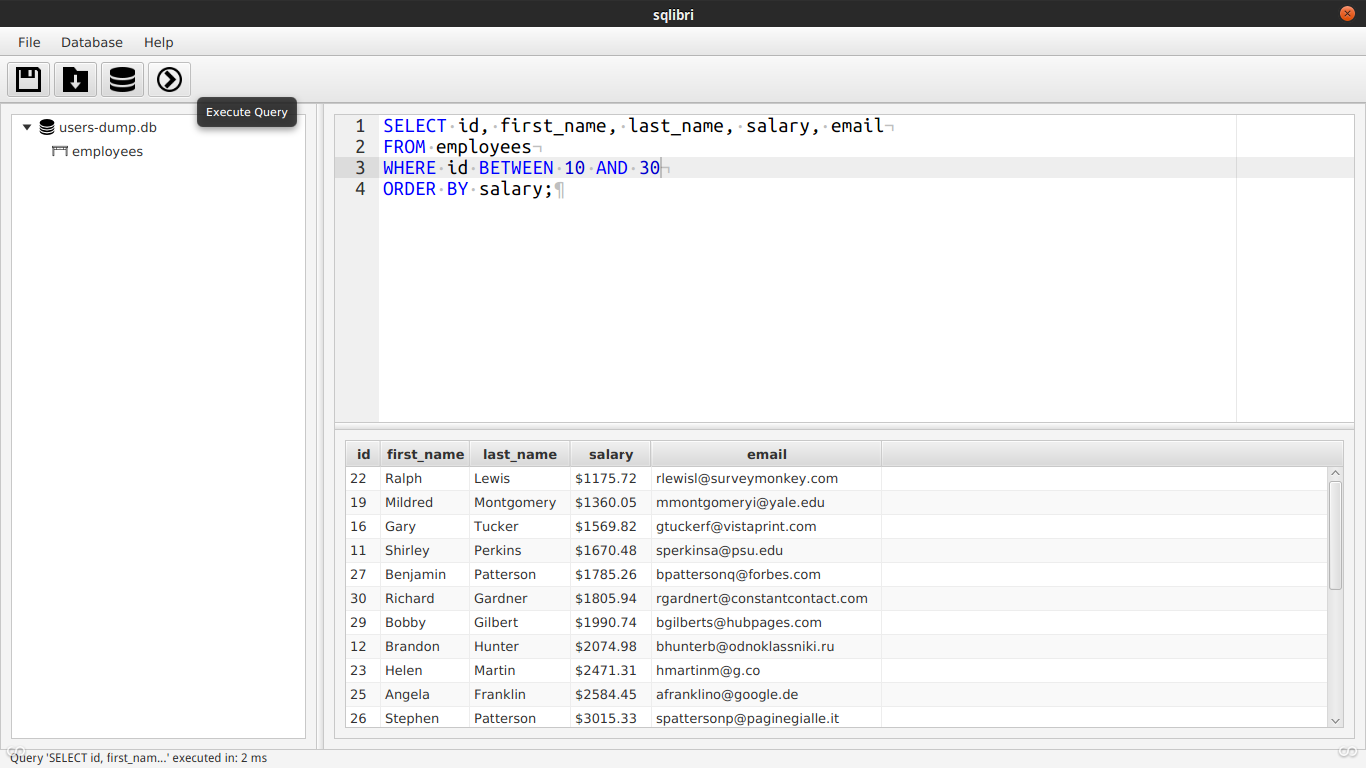
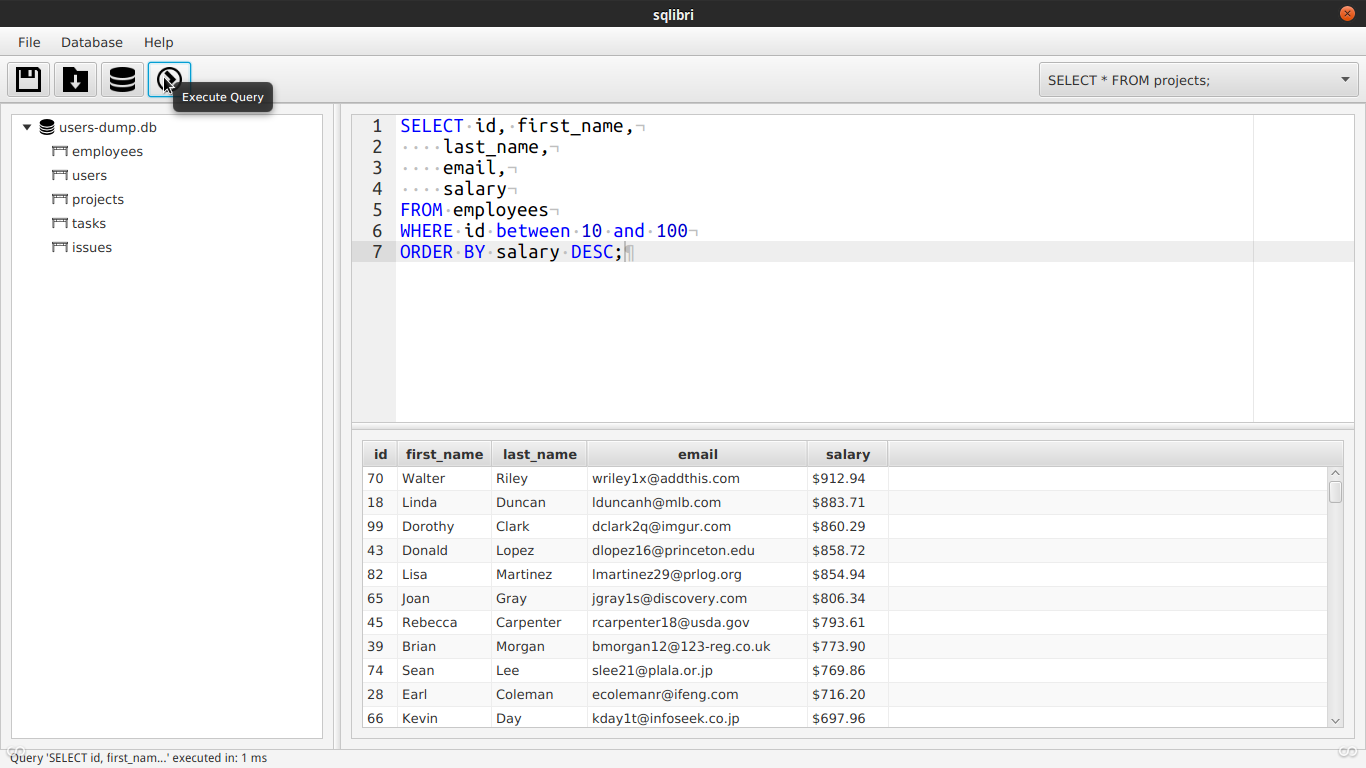
Adding more documentation

Changed region(s): [[0.0922, 0.0938, 0.6457, 0.9688], [0.0307, 0.2188, 0.0922, 0.3438], [0.7687, 0.0938, 0.8917, 0.125]]

diff --git a/README.md b/README.md
@@ -1,3 +1,22 @@
+<div style="display: inline-block;
+background-color: #444;
+border-top-left-radius: 3px;
+border-bottom-left-radius: 3px;
+color: white;
+padding: 3px;"> 
+version
+</div>
+<div style="display: inline-block;
+background-color: teal;
+color: white;
+border-top-right-radius: 3px;
+border-bottom-right-radius: 3px;
+padding: 3px;">
+0.4.2
+</div>
+
+<br />
+
 <img src= "https://raw.githubusercontent.com/Saka7/sqlibri/master/logo-xdpi.png" alt="SQLibry Logo" width="50%" style="position: relative; left: 50%; margin-left: -25%; margin-top: 10px"/>
 
 ``` Bash
@@ -24,7 +43,7 @@ gradle build
 ```
 To build the project. And
 ``` Bash
- java -jar build/libs/sqlibri-0.0.3.jar
+ java -jar build/libs/sqlibri-[version].jar
 ```
 To run it.
 
@@ -58,6 +77,12 @@ To copy database click on **DATABASE** menu -> **COPY** menu item / or press 	``
 You can write SQL queries in the SQL Editor, which provides some advanced code editor features like syntax highlighting, intellisence and snippets. To run the query click on **EXECUTE** button or press **F9**. Query execution info will be displayed in the status bar. If query returns any data it will be displayed in the table view.
 
 ![Working with SQL editor](https://raw.githubusercontent.com/Saka7/sqlibri/master/src/com/sqlibri/resources/image/SQLEditor.png)
+
+#### Navigating through previously executed queries
+When query has been executed, it saves to history. You can search and select previously executed queries using history combobox.
+
+![Queries History](https://raw.githubusercontent.com/Saka7/sqlibri/master/src/com/sqlibri/resources/image/History.png)
+
 
 ### Working with query files
 #### Saving Queries
